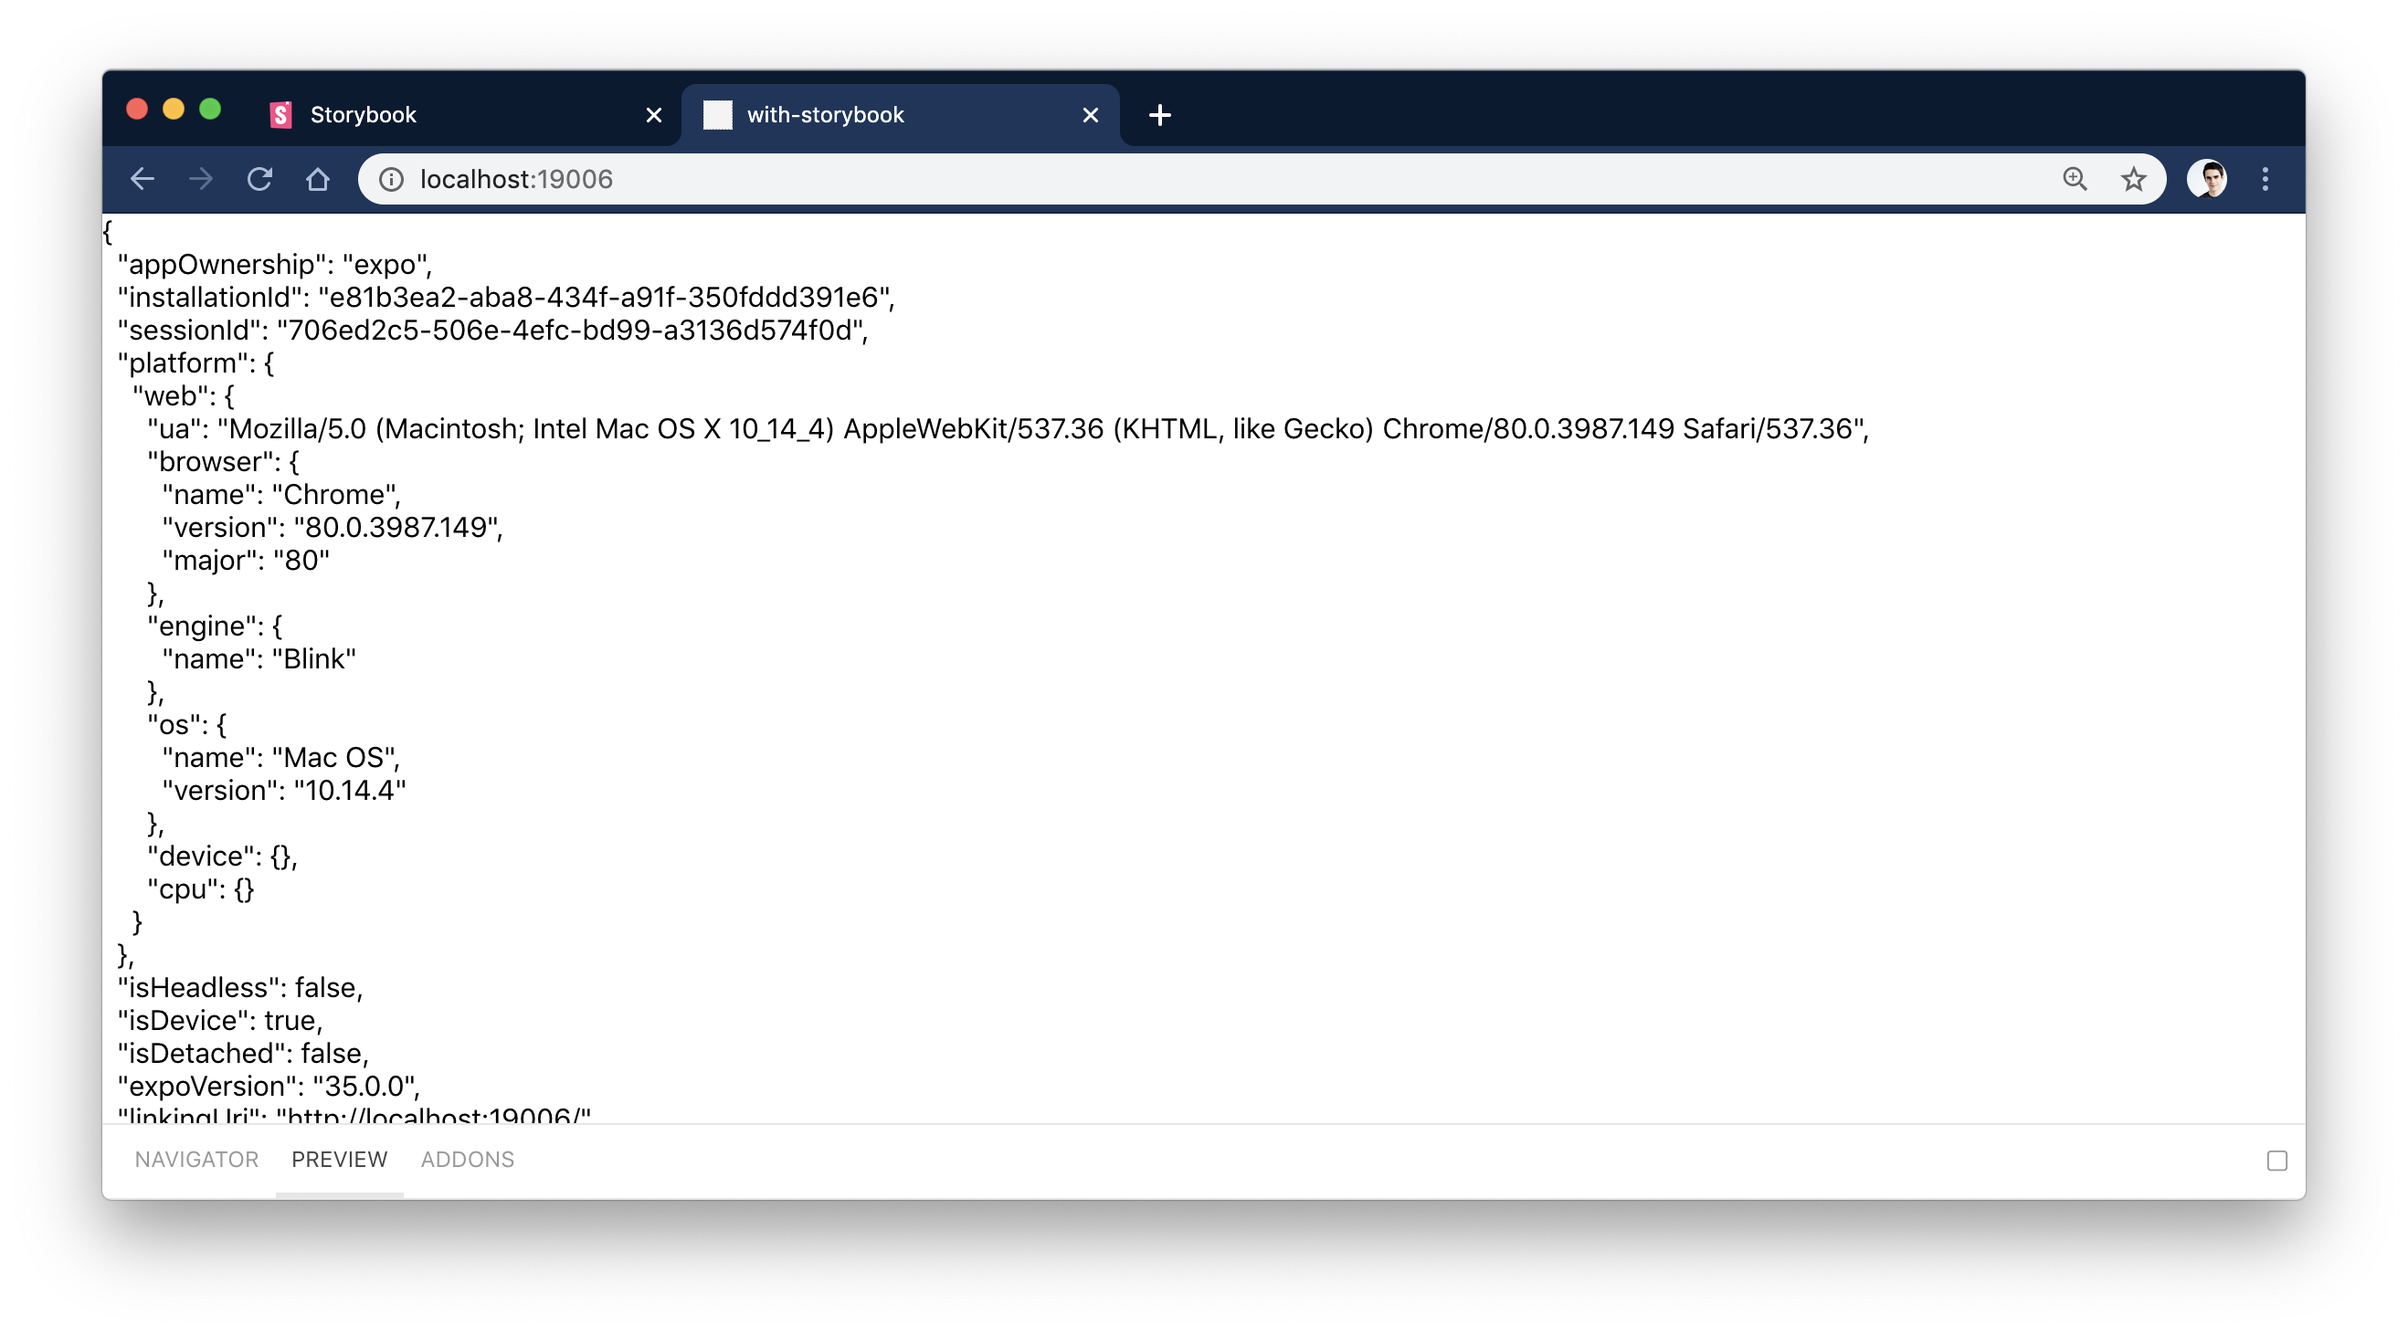
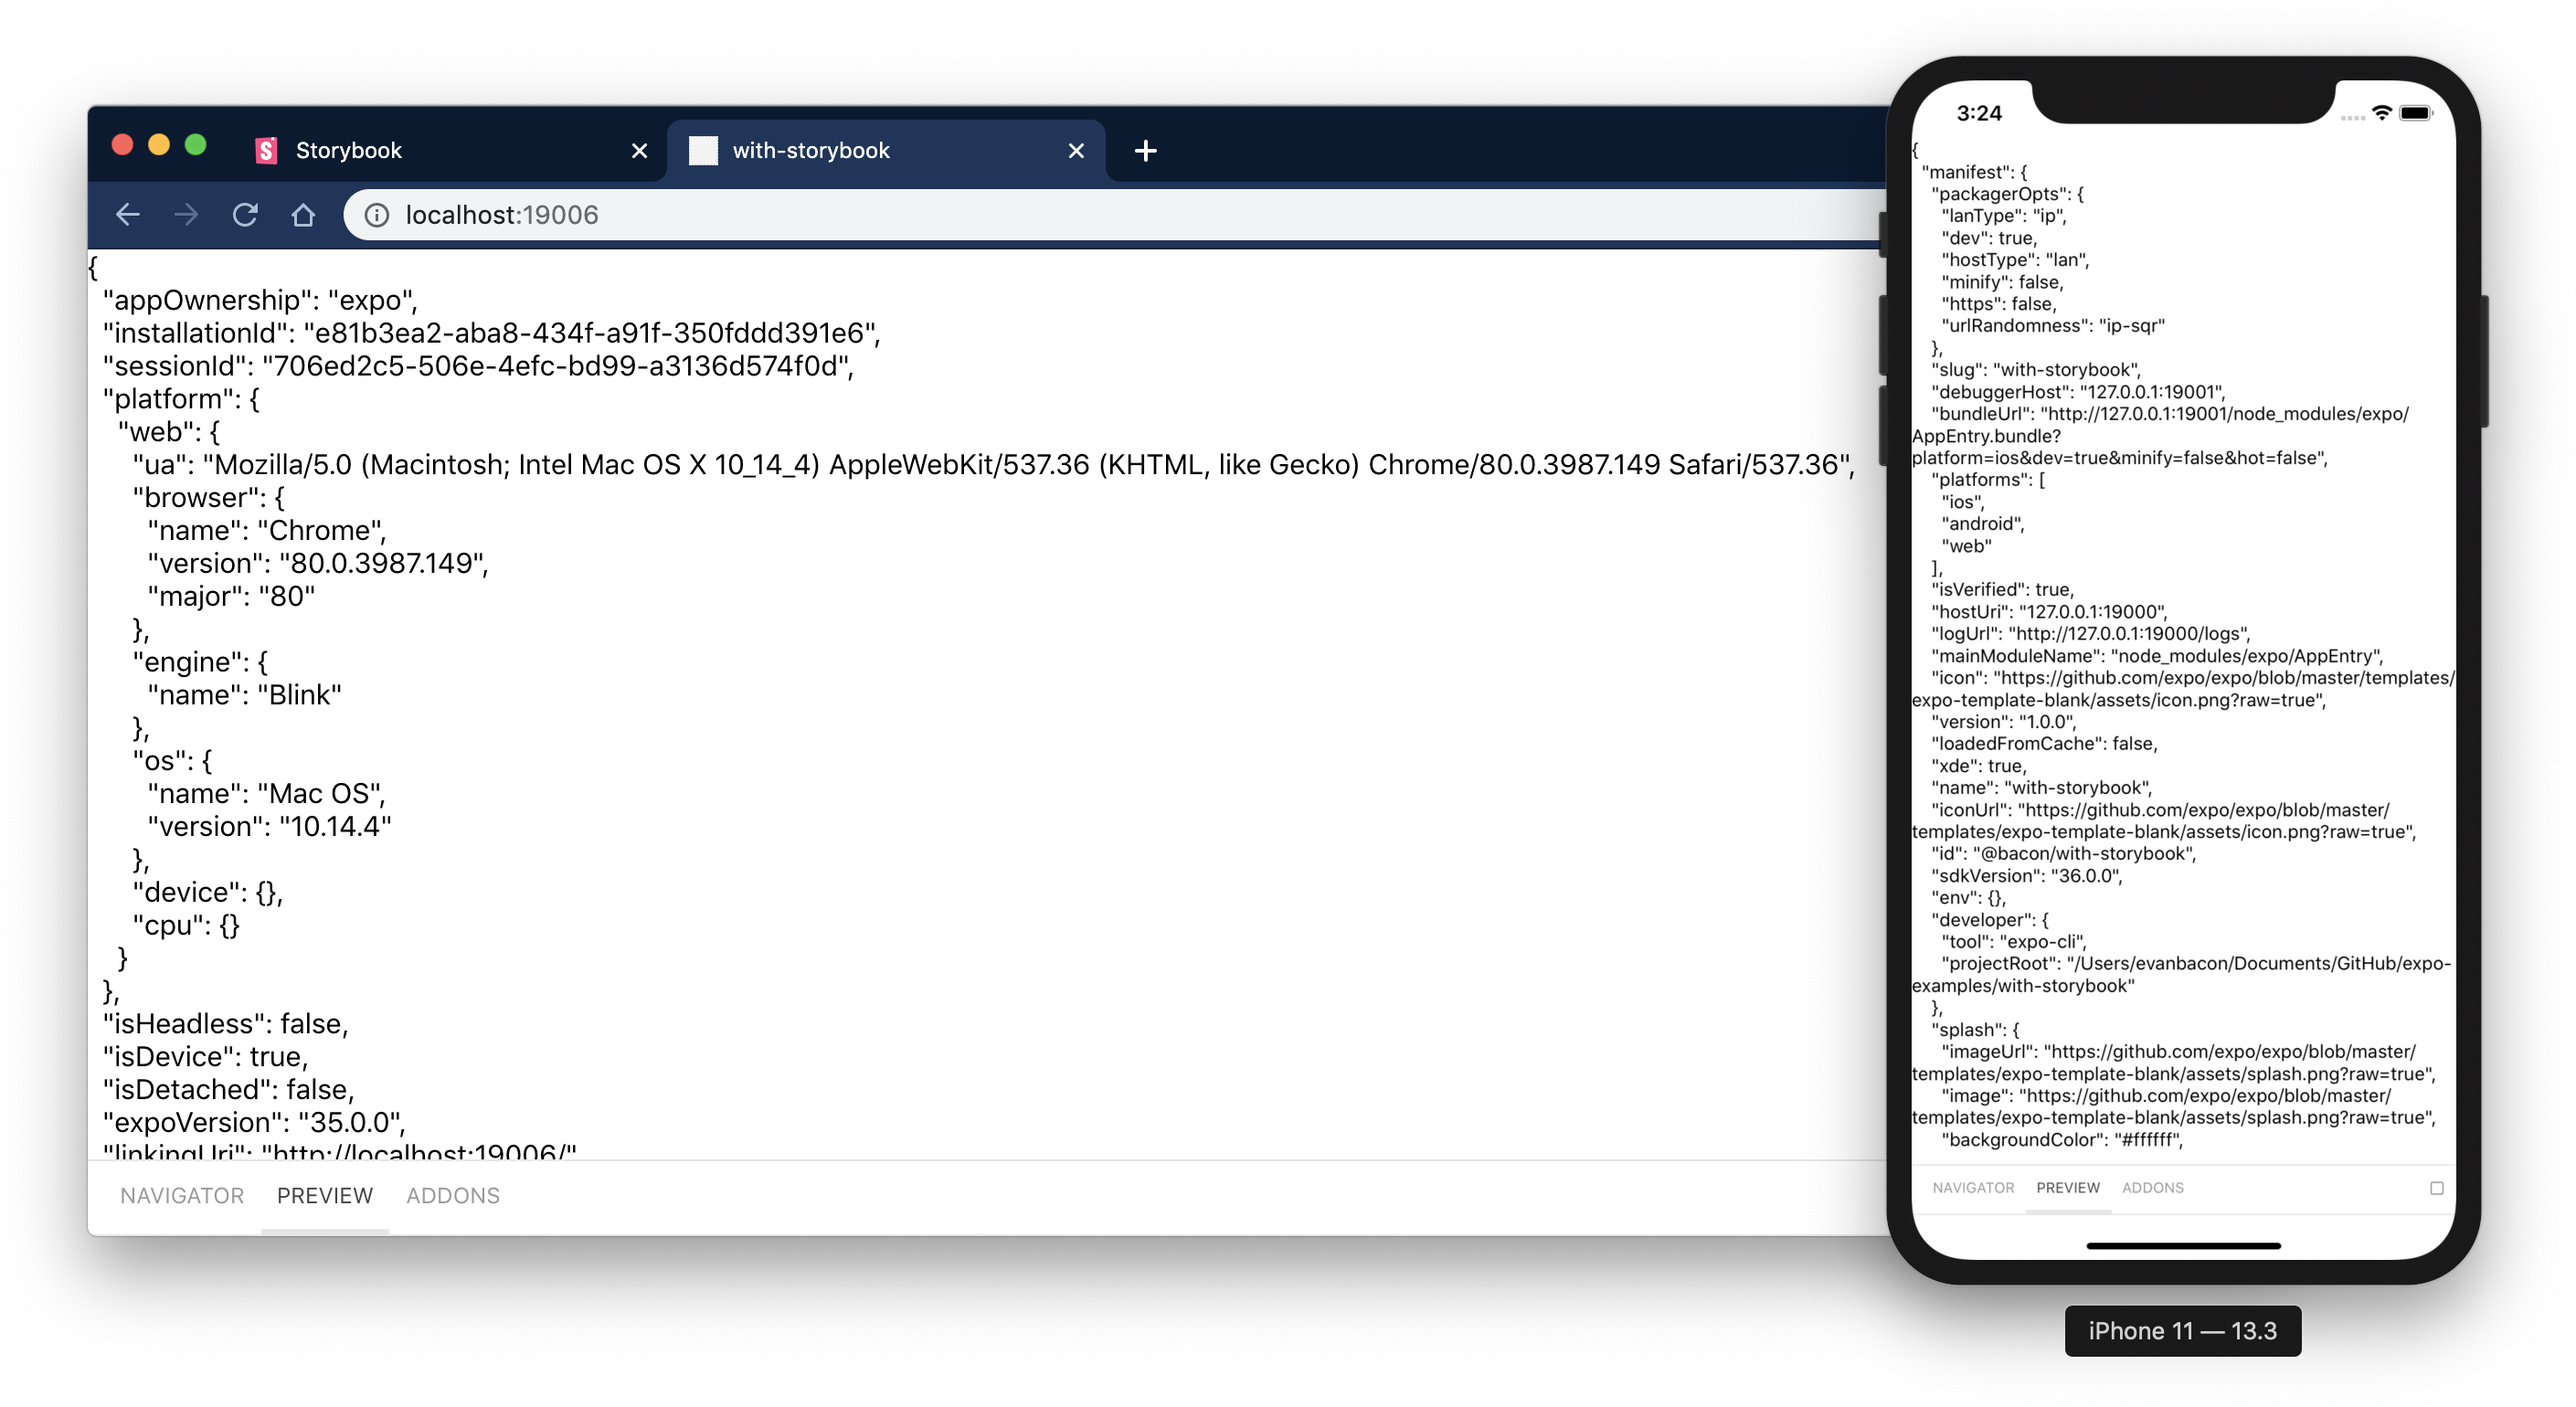
Added more storybook images

Changed region(s): [[0.0311, 0.0308, 0.9643, 0.985]]

diff --git a/with-storybook/README.md b/with-storybook/README.md
@@ -9,6 +9,8 @@
   <img alt="Supports Expo Web" longdesc="Supports Expo Web" src="https://img.shields.io/badge/web-4630EB.svg?style=flat-square&logo=GOOGLE-CHROME&labelColor=4285F4&logoColor=fff" />
 </p>
 
+<img alt="expo examples" src=".gh-assets/all-platforms.png">
+
 You can use Storybook to test and share your component library quickly and easily! This example shows how to use Expo modules with Storybook CLI and Expo CLI.
 
 ## Running with Storybook CLI
@@ -54,7 +56,7 @@ Expo with Storybook CLI
 
 ## Running with Expo CLI
 
-![storybook with expo-cli](.gh-assets/storybook-with-expo-cli.png "storybook with expo-cli")
+<img alt="storybook with expo-cli" src=".gh-assets/storybook-with-expo-cli.png">
 
 > This method is universal :]
 
